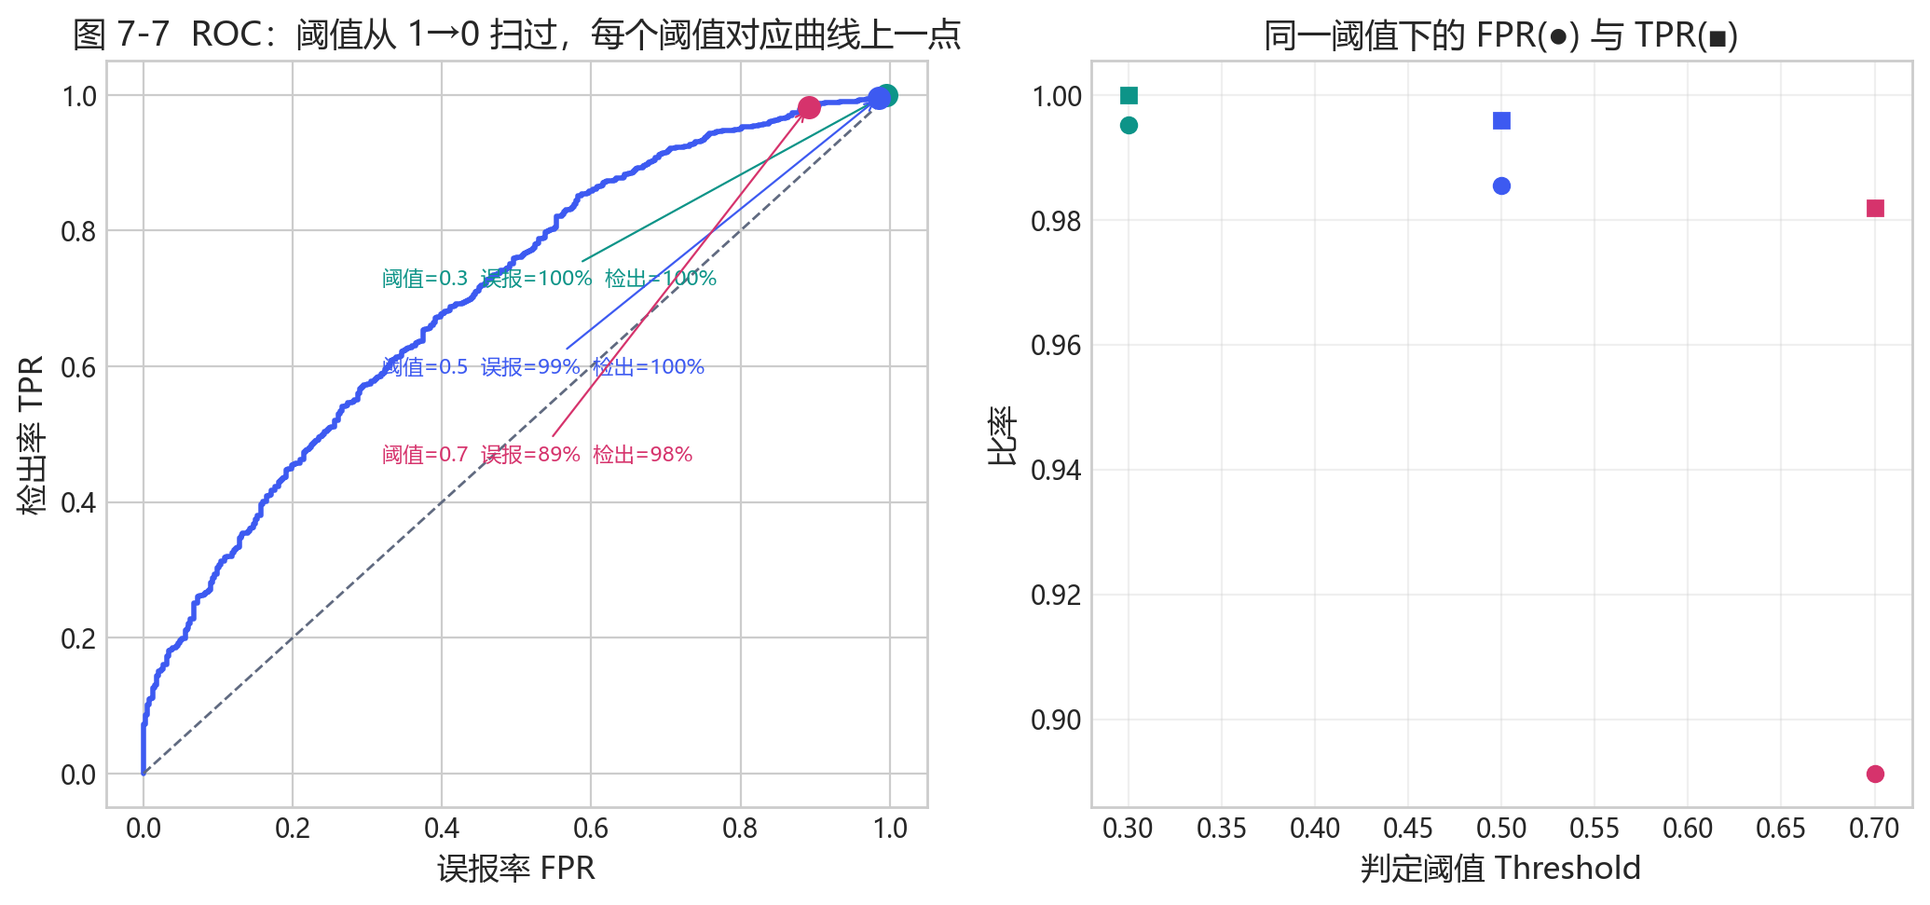
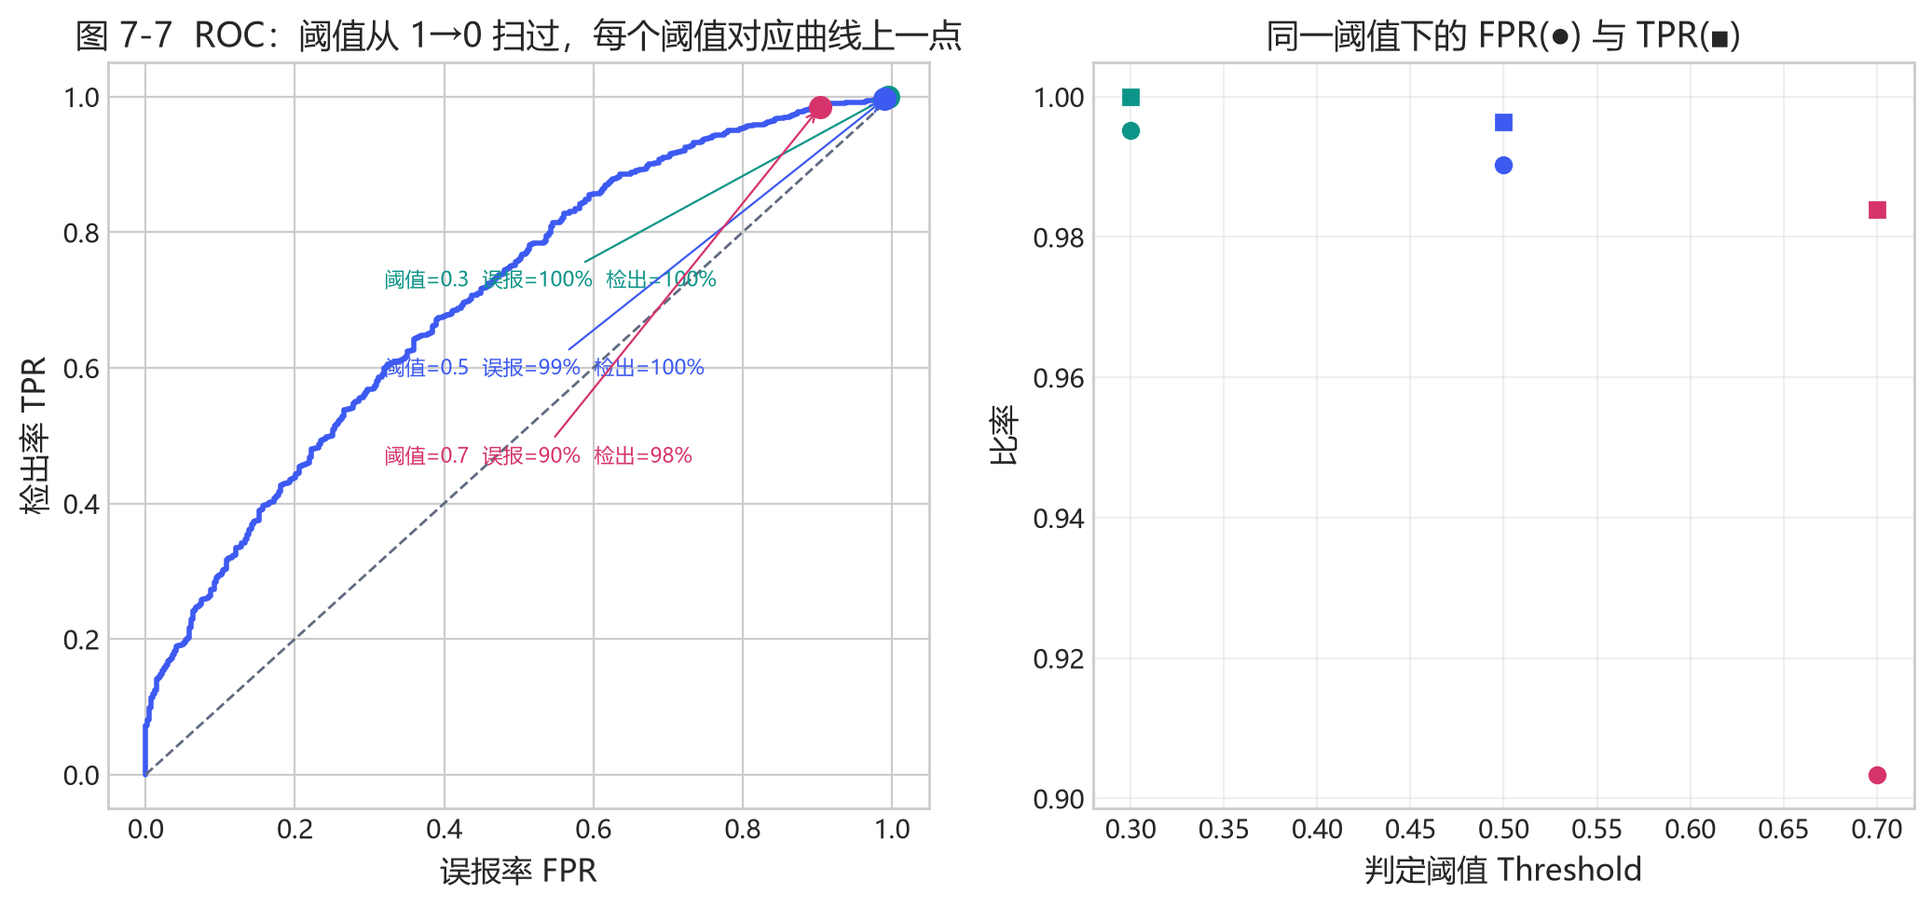
fix(teaching): 视频旁白脚本与教学图按修正口径更新, 手册校验器扩到视频脚本
视频脚本仍带被推翻的结论: '53d 可解释版 AUC 更高'(错)、'AUC 推到 0.81 / OOF 0.814'(v1 旧数)、v1 时期 SRM 预处理口径未加限定。现改为 143d 更准(8-split 0.898)/53d 逐维可解释(0.846), 并给 v1 口径加上'未在当前版本复现'。

'四个分类器 AUC 几乎重叠' 补范围限定: 该说法只在 11 维语料成立(LR/RF/GB/XGB = 0.701/0.702/0.714/0.720); 143 维上是 LR 0.924 / LGB 0.901 / XGB 0.900 / RF 0.866。

教学图按修正后的 11 维语料重画(teaching/gen_ml_figures.py); 本地第 8 章视频重渲(ch08.mp4, 4:06/14 段), durations.json 与质检图同步。

teaching/handbook_facts.py 校验范围扩到视频脚本文稿(禁止 AUC 更高/推到 0.81 等, 要求现口径与 v1 限定), CI 手册 job 一并覆盖。

diff --git a/teaching/handbook_facts.py b/teaching/handbook_facts.py
@@ -43,6 +43,22 @@ PDF = {
     "en": os.path.join(PROJ, "docs", "Learning-Handbook-From-Zero-to-nsF5-Steganography.pdf"),
 }
 
+# 旁白视频的脚本文稿 (教学面的第五处; 视频本体是生成物, 不入库)
+VIDEO_FILES = {
+    "zh": [os.path.join(PROJ, "teaching", "video_scenes_zh.py"),
+           os.path.join(PROJ, "teaching", "video_decks_zh.py")],
+}
+VIDEO_FORBIDDEN = [
+    "AUC 更高",          # 53d 不再"更高" —— 修正后 143d 更准
+    "推到 0.81",         # v1 时期的 OOF 数字
+    "OOF ≈ 0.814",
+    "四者 AUC ≈ 0.70–0.72，几乎重叠",   # 该说法只在 11 维语料成立, 需写明范围
+]
+VIDEO_REQUIRED = [
+    "未在当前版本复现",   # v1 时期的 SRM 预处理口径必须带这个限定
+    "0.898",             # 现口径
+]
+
 # --------------------------------------------------------------------------
 #  1) 必须出现的现口径 (两种语言都要有)
 # --------------------------------------------------------------------------
@@ -329,6 +345,12 @@ WEB = {
          "| **文档章节** | **对应代码** | **读它之前先掌握** |"),
         ("## 10.4 论文与代码对照阅读表", "## 10.4 文档与代码对照阅读表"),
         ("选论文/README 中的 1～2 个结论", "选 README / `docs/RESULTS.md` 中的 1～2 个结论"),
+        ("### 8.8.1 SRM 高通滤波：同源有收益，跨源反而亏",
+         "### 8.8.1 SRM 高通滤波：v1 时期同源有收益、跨源反而亏（该口径未在当前版本复现）"),
+        ("# 53d 可解释版（去 SRM 90 维，AUC 更高、可逐维解释）",
+         "# 53d 可解释版（去 SRM 90 维；AUC 略低，但每一维都能解释）"),
+        ("SRM 同源有收益、跨源反而亏（ch08.8.1）",
+         "SRM 预处理在 v1 口径下同源有收益、跨源反而亏（ch08.8.1；该口径未在当前版本复现）"),
         ("v2 逻辑回归在训练分布内 AUC 很高，但部署到真实 JPEG 干净照片时**几乎全判 1.0**："
          "SRM 残差对 JPEG 高频噪声过于敏感。修复办法是把 414 张真实 JPEG 干净图作为独立 "
          "`photo_id`（与原训练集完全不相交）加入训练，得 `dataset_campus_v2_jpeg.csv`，"
@@ -434,6 +456,17 @@ WEB = {
          "- The 90 SRM residual statistics are the single largest gain contributor (52.6%) once "
          "the feature scale is consistent, but they are also the least interpretable block - that "
          "is the trade-off the 53-D model removes;"),
+        ("### 8.8.1 SRM High-Pass Filtering: Same-Source Gain, Cross-Source Loss",
+         "### 8.8.1 SRM High-Pass Filtering: v1-Era Same-Source Gain, Cross-Source Loss "
+         "(not reproduced in the current revision)"),
+        ("# 53d interpretable model (SRM 90 removed; higher AUC)",
+         "# 53d interpretable model (SRM 90 removed; slightly lower AUC, fully interpretable)"),
+        ("SRM gains on same-source but loses on cross-source (ch08.8.1)",
+         "In the v1-era protocol SRM gains on same-source but loses on cross-source "
+         "(ch08.8.1; not reproduced in the current revision)"),
+        ("> **Watch out |** The gain only appears within **same-source** data.",
+         "> **Watch out (v1-era protocol; not reproduced in the current revision) |** "
+         "In that protocol the gain only appeared within **same-source** data."),
         ("- ML detection grew from 11-D features with LR/XGB (AUC ~0.75-0.79) to a 143-D LightGBM "
          "default (0.9085 average) plus a 53-D interpretable model (0.9227); see 8.8;",
          "- ML detection grew from 11-D features with LR/XGB (AUC ~0.75-0.79) to a 143-D LightGBM "
@@ -605,6 +638,19 @@ def check(include_web: bool) -> int:
                 if s not in text:
                     print(f"  [缺现口径] {lang}/{label}: 缺 {s!r}")
                     bad += 1
+    # 视频脚本文稿 (只有中文旁白)
+    for p in VIDEO_FILES["zh"]:
+        if not os.path.exists(p):
+            continue
+        txt = io.open(p, encoding="utf-8").read()
+        for s in VIDEO_FORBIDDEN:
+            if s in txt:
+                print(f"  [陈旧结论] video/{os.path.basename(p)}: 仍含 {s!r}")
+                bad += 1
+        for s in VIDEO_REQUIRED:
+            if s not in txt:
+                print(f"  [缺现口径] video/{os.path.basename(p)}: 缺 {s!r}")
+                bad += 1
     if bad:
         print(f"\n手册校验未通过: {bad} 处。跑 `python teaching/handbook_facts.py --fix` 修正源稿。")
         return 1

diff --git a/teaching/video_decks_zh.py b/teaching/video_decks_zh.py
@@ -729,7 +729,7 @@ DECKS = [
                     "5 折 GroupKFold OOF 选模型 → 校准集挑阈值",
                     "全量重训 → held-out 测试集只评一次",
                 ]),
-            dict(t="四个分类器，差距不大", layout="side",
+            dict(t="四个分类器：11 维上差距不大", layout="side",
                 img=f"{ASSETS}/ml_clf_compare_roc.png", caption="真实数据：11 维特征、5 折 GroupKFold——四个分类器的 ROC 几乎重叠", say=(
                     "逻辑回归、随机森林、梯度提升、XGBoost，思路分别是画线、投票、接力补错。"
                     "但看这张真实对比图：四条 ROC 几乎叠在一起，AUC 都在零点七到零点七二之间。"
@@ -738,7 +738,7 @@ DECKS = [
                     "逻辑回归学出的系数还能逐个解释每个特征往哪个方向推——这是可解释性的红利。"),
                 bullets=[
                     "LR 画线 / RF 投票 / GB·XGB 接力补错",
-                    "四者 AUC ≈ 0.70–0.72，几乎重叠",
+                    "11 维上 LR/RF/GB/XGB ≈ 0.70–0.72，几乎重叠",
                     "瓶颈在特征与数据，不在分类器",
                     "~LR 系数可逐维解释（特征重要度）",
                 ]),
@@ -755,19 +755,21 @@ DECKS = [
                     "检测能力有物理上限 → ML 概率与启发式交叉印证",
                 ]),
             dict(t="v1.4 演进：SRM、143 维与双版本", layout="bullets", say=(
-                "最后看 v1.4 的三条升级线。第一，SRM 高通滤波预处理："
-                "同源数据上 AUC 提升约三个点，但跨源合并反而下降——预处理收益有严格的适用范围。"
-                "第二，特征从 11 维扩到 143 维、变体从 6 档扩到 12 档，OOF 提到零点八一。"
+                "最后看 v1.4 的三条升级线。第一，SRM 高通滤波作为预处理层："
+                "当年（v1 口径）同源数据上 AUC 提升约三个点，但跨源合并反而下降——"
+                "这条口径在当前版本没有复现，别当成定论。"
+                "第二，特征从 11 维扩到 143 维、变体从 6 档扩到 12 档。"
                 "第三，一个真实的部署教训：模型在校园灰度图上学得很好，"
                 "遇到真实 JPEG 相机照片的干净图，几乎全部误判成含密——这是分布漂移。"
                 "修复办法是把真实 JPEG 干净图加进训练。"
-                "最终双版本部署：143 维稳健版做默认，53 维可解释版 AUC 更高、可逐维解释。"
+                "最终双版本部署：143 维更准（8-split 零点八九八）做默认，"
+                "53 维每一维都能解释（零点八四六），代价是 AUC 低约零点零五。"
                 "任何新模型，部署前都要先做分布外测试。"),
                 bullets=[
-                    "SRM 预处理：同源 +0.03 AUC；跨源反亏",
-                    "143 维 + 12 档：OOF ≈ 0.814",
+                    "SRM 预处理：v1 口径下同源 +0.03、跨源反亏（未在当前版本复现）",
+                    "143 维 + 12 档：现口径 8-split 0.898（143d）/ 0.846（53d）",
                     "~教训：真实 JPEG 干净图曾全判 1.0（分布漂移）→ 加负样本修复",
-                    "双版本：143d 稳健（默认）/ 53d 可解释（AUC 更高）",
+                    "双版本：143d 更准（默认）/ 53d 逐维可解释（AUC 低约 0.05）",
                 ]),
         ],
         question="想一想：如果有 10 万张独立照片，还会坚持“特征法”吗？",

diff --git a/teaching/video_scenes_zh.py b/teaching/video_scenes_zh.py
@@ -1092,21 +1092,21 @@ dict(num=8, title="用机器学习做隐写检测", weeks="第 8–14 周", scen
         "__pill__Gn 塌缩 = 强力证据"]),
     S("bullets", "数据与训练：三条纪律", [
         B("数据怎么来？每张源照片生成 1 张干净加 6 个含密变体，覆盖不同算法、不同强度。训练流水线严守三条纪律：先按照片预留四分之一做测试集，绝不参训；训练池五折分组交叉验证选模型；校准集挑阈值；最后测试集只碰一次。", 2),
-        B("四个候选分类器——逻辑回归、随机森林、梯度提升、XGBoost——比下来 AUC 几乎重叠。结论反直觉但重要：瓶颈不在分类器，在特征。", 2),
+        B("四个候选分类器——逻辑回归、随机森林、梯度提升、XGBoost——在这个 11 维特征上 AUC 几乎重叠。结论反直觉但重要：这一层的瓶颈不在分类器，在特征。", 2),
     ], ["数据：每照片 1 干净 + 6 含密（1+6）",
         "纪律：预留测试集 / GroupKFold OOF / 校准挑阈值 / 只评一次",
-        "~LR、RF、GB、XGB：AUC 几乎重叠 → 瓶颈在特征"]),
+        "~11 维上 LR/RF/GB/XGB = 0.701/0.702/0.714/0.720：几乎重叠 → 瓶颈在特征"]),
     S("anim", "读结果：阈值是取舍，不是答案", [
         B("模型输出的是概率，要定一个阈值才能下结论。看动画：阈值从高往低滑，检出率上升，误报率也跟着涨。严一点，误报少但漏掉弱嵌入；松一点，抓得多但冤枉也多。", 0, anim_beat=0),
         B("项目用 Youden 准则自动选离对角线最远的点做默认阈值，再备一个低误报阈值给严格档。按密度分组看检出率：强嵌入九成以上，最弱的 nsF5 档只有五成——检测有物理上限，这是要接受的现实。", 0, anim_beat=1),
     ], anim="roc"),
     S("bullets", "v1.4 演进：三次升级，一堂贵课", [
-        B("最后看版本演进的三课。SRM 高通滤波：同源数据涨三个点，跨源反而亏——预处理不是万金油。特征 11 维升到 143 维、变体 6 档升 12 档后，AUC 推到 0.81。", 2),
+        B("最后看版本演进的三课。SRM 高通滤波作为预处理层：当年（v1 口径）同源数据涨三个点、跨源反而亏——这条口径在当前版本没有复现，别当成定论。第二课是特征升级：11 维升到 143 维、变体 6 档升 12 档。", 2),
         B("最贵的一课是分布漂移：模型在训练数据上表现很好，遇到真实 JPEG 相机照片，却把干净图几乎全判成含密。修复办法是把真实 JPEG 干净图加进训练。最终双版本部署：143 维稳健版做默认，53 维可解释版给论文和教学。记住：新模型上线前，先做分布外测试。", 4),
-    ], ["SRM 预处理：同源 +0.03，跨源反亏（不是万金油）",
-        "143 维 + 12 档：OOF ≈ 0.81",
+    ], ["SRM 预处理：v1 口径下同源 +0.03、跨源反亏（未在当前版本复现）",
+        "11 维 → 143 维、6 档 → 12 档",
         "~教训：真实 JPEG 干净图全判 1.0 → 分布漂移 → 加负样本修复",
-        "双版本：143d 稳健（默认）/ 53d 可解释（AUC 更高）"]),
+        "双版本：143d 更准（默认，8-split 0.898）/ 53d 逐维可解释（0.846）"]),
     close_scene("如果有十万张独立照片，你还会坚持特征法，还是上深度学习？",
                 "第 9 章 · 工程化：C++、GPU、GUI 与测试",
                 "想一想：如果有十万张独立照片，你还会坚持特征法，还是上深度学习？为什么？",

diff --git a/teaching/web/en/content/ch08.md b/teaching/web/en/content/ch08.md
@@ -256,7 +256,7 @@ print(get_predictor().predict(s))
 
 Sections 8.1-8.7 describe the v1.0-v1.3 route: 11-D features with LR/XGB, AUC ~0.75-0.79. v1.4.0 upgraded along three lines: SRM high-pass preprocessing, 143-D v2 features with 12 variants, and finally the dual LightGBM model strategy. The story follows the actual evolution, so the README's experiment tables make sense.
 
-### 8.8.1 SRM High-Pass Filtering: Same-Source Gain, Cross-Source Loss
+### 8.8.1 SRM High-Pass Filtering: v1-Era Same-Source Gain, Cross-Source Loss (not reproduced in the current revision)
 
 SRM (Spatial Rich Model) is a set of **high-pass filter kernels**. `src/srm_filter.py` implements 30 standard kernels, filters the image, takes the maximum absolute response per pixel, clips to +/-4, and rescales into an "enhanced image" that feeds the existing feature extractors. CPU (numpy) and GPU (torch) implementations; switches are `make_dataset.py --preprocess srm` and the GPU `use_srm=True`.
 
@@ -269,7 +269,7 @@ SRM (Spatial Rich Model) is a set of **high-pass filter kernels**. `src/srm_filt
 | Low-FP stego detection | 41.2% | 50.3% |
 | Clean false positives (low-FP thr) | 9.6% | 9.6% |
 
-> **Watch out |** The gain only appears within **same-source** data. In cross-source (campus + full BOSSbase), SRM pulls CPU test AUC from 0.741 down to 0.704 and GPU validation AUC from 0.651 down to 0.572 - high-pass filtering also flattens the differences between cameras/compression sources. So the default model is trained on merged data without SRM, while the SRM campus model is kept separately as campus_srm.
+> **Watch out (v1-era protocol; not reproduced in the current revision) |** In that protocol the gain only appeared within **same-source** data. In cross-source (campus + full BOSSbase), SRM pulls CPU test AUC from 0.741 down to 0.704 and GPU validation AUC from 0.651 down to 0.572 - high-pass filtering also flattens the differences between cameras/compression sources. So the default model is trained on merged data without SRM, while the SRM campus model is kept separately as campus_srm.
 
 ### 8.8.2 The v2 143-D Feature Set and 12 Variants
 
@@ -308,7 +308,7 @@ from ml_predict import MLPredictor
 # default: 143d robust model (models/stego_classifier.joblib)
 pred_143 = MLPredictor()
  
-# 53d interpretable model (SRM 90 removed; higher AUC)
+# 53d interpretable model (SRM 90 removed; slightly lower AUC, fully interpretable)
 pred_53 = MLPredictor(
     model_path='models/stego_classifier_v2_jpeg_lgb_51d.joblib',
     clip_outliers=False)

diff --git a/CHANGELOG.md b/CHANGELOG.md
@@ -3,6 +3,38 @@
 All notable changes to this project will be documented in this file.
 Format follows [Keep a Changelog](https://keepachangelog.com/en/1.1.0/).
 
+## [1.6.5] - 2026-09-14
+
+**把"教学面"补全：视频旁白脚本、教学图、以及散落各处的措辞。**
+
+上一版修了手册的 DOCX / 网页 / PDF 三处，但教学材料还有第五处 —— **旁白视频**
+（`teaching/video_scenes_zh.py` 与 `video_decks_zh.py`）。排查后确认它们同样带着
+被推翻的结论，这一版一起修掉并把护栏扩到视频脚本。
+
+### Fixed
+
+- `video_scenes_zh.py` / `video_decks_zh.py`：
+  - **"53d 可解释版 AUC 更高"** —— 错。现改为"143d 更准（8-split 0.898）做默认，
+    53d 每一维都能解释（0.846），代价是 AUC 低约 0.05"；
+  - **"143 维 + 12 档：AUC 推到 0.81 / OOF ≈ 0.814"** —— v1 时期数字，已删；
+  - **"SRM 预处理：同源 +0.03、跨源反亏"** —— v1 口径，加上"未在当前版本复现"的限定；
+  - "四个分类器 AUC 几乎重叠" 补上范围限定（**11 维**语料上成立：LR/RF/GB/XGB =
+    0.701/0.702/0.714/0.720，极差 0.02；143 维上是 LR 0.924 / XGB 0.900 /
+    LGB 0.901 / RF 0.866）。
+- `teaching/web/{zh,en}/content/ch08.md`：8.8.1 节标题与代码注释里的
+  "AUC 更高"、v1 时期 SRM 口径的表述；`appF.md` 的同一处。
+- `README.md`：`MLPredictor` 示例注释 "53d 可解释版（AUC 更高）" → "AUC 略低，
+  但每一维都能解释"。
+- 教学图按修正后的 11 维语料重画（`teaching/gen_ml_figures.py`，含四分类器 ROC）。
+- **本地视频重渲**：第 8 章 `ch08.mp4` 重新生成（4:06，14 段；变化的旁白重新
+  TTS，未变的分段复用缓存），`durations.json` / `index.html` / 质检图同步更新。
+
+### Added
+
+- `teaching/handbook_facts.py` 的校验范围扩到**视频脚本文稿**：禁止
+  "AUC 更高""推到 0.81""OOF ≈ 0.814" 等陈旧说法，要求出现"未在当前版本复现"
+  与现口径数字。CI 的手册 job 一并覆盖（注入测试验证过它能抓到）。
+
 ## [1.6.4] - 2026-09-14
 
 **对教学材料负责：手册改正 + 教学 notebook 进 CI。**

diff --git a/teaching/web/zh/content/ch08.md b/teaching/web/zh/content/ch08.md
@@ -256,7 +256,7 @@ print(get_predictor().predict(s))
 
 8.1~8.7 讲的是 v1.0~v1.3 路线：11 维特征 + LR/XGB，AUC 约 0.75~0.79。v1.4.0 沿三条线升级：SRM 高通滤波预处理、143 维 v2 特征与 12 档变体、以及最终的 LightGBM 双版本模型。下面按演进顺序讲，帮你读懂 README 里的实验表。
 
-### 8.8.1 SRM 高通滤波：同源有收益，跨源反而亏
+### 8.8.1 SRM 高通滤波：v1 时期同源有收益、跨源反而亏（该口径未在当前版本复现）
 
 SRM（Spatial Rich Model）是一组**高通滤波核**。`src/srm_filter.py` 实现 30 个标准核，对图像逐核滤波后取最大绝对响应、clip 到 ±4 再缩放成一张“增强图”，喂给原有特征器。CPU（numpy）与 GPU（torch）双实现，开关是 `make_dataset.py --preprocess srm` 和 GPU 的 `use_srm=True`。
 
@@ -308,7 +308,7 @@ from ml_predict import MLPredictor
 # 默认：143d 稳健版（models/stego_classifier.joblib）
 pred_143 = MLPredictor()
  
-# 53d 可解释版（去 SRM 90 维，AUC 更高、可逐维解释）
+# 53d 可解释版（去 SRM 90 维；AUC 略低，但每一维都能解释）
 pred_53 = MLPredictor(
     model_path='models/stego_classifier_v2_jpeg_lgb_51d.joblib',
     clip_outliers=False)

diff --git a/teaching/web/en/content/appF.md b/teaching/web/en/content/appF.md
@@ -38,7 +38,7 @@ To produce results, do not spread evenly. Go deep on one track; keep the rest at
 
 - **JPEG-domain hiding**: move ch04-05 to quantized DCT coefficients (the project's `yccstego` extension is this direction); feel "spatial vs transform domain" difference;
 - **Deep steganalysis**: under small-sample constraints, use explainable features first to verify the signal, then cautiously introduce deep models (the ch08.1 lesson);
-- **Domain adaptation / cross-source robustness**: SRM gains on same-source but loses on cross-source (ch08.8.1); study how adaptation makes features stable across cameras/compression;
+- **Domain adaptation / cross-source robustness**: In the v1-era protocol SRM gains on same-source but loses on cross-source (ch08.8.1; not reproduced in the current revision); study how adaptation makes features stable across cameras/compression;
 - **Adversarial robustness and false-positive control**: study "loose vs strict" thresholds and Youden / low-FP trade-offs (ch07), and the physical ceiling of undetectable embedding;
 - **Explainability**: 143d robust vs 53d interpretable (ch08.8.4); study which features truly contribute the gain and how to explain per-dimension.
 

diff --git a/teaching/web/zh/content/appF.md b/teaching/web/zh/content/appF.md
@@ -38,7 +38,7 @@
 
 - **JPEG 域隐写**：把 ch04–05 的思路搬到量化 DCT 系数（项目 `yccstego` 扩展即此方向），体会“空间域 vs 变换域”的差异；
 - **深度学习隐写分析**：在小样本约束下，如何用可解释特征先验证信号，再谨慎引入深度模型（ch08.1 的教训）；
-- **域适应 / 跨源鲁棒性**：SRM 同源有收益、跨源反而亏（ch08.8.1），可研究如何用域适应让特征跨相机/压缩源更稳；
+- **域适应 / 跨源鲁棒性**：SRM 预处理在 v1 口径下同源有收益、跨源反而亏（ch08.8.1；该口径未在当前版本复现），可研究如何用域适应让特征跨相机/压缩源更稳；
 - **对抗鲁棒性与误报控制**：研究“宽松 vs 严格”阈值与 Youden/低误报点的取舍（ch07），以及不可检测嵌入的物理上限；
 - **可解释性**：143d 稳健 vs 53d 可解释（ch08.8.4），可研究哪些特征真正贡献了增益、如何做逐维解释。
 

diff --git a/README.md b/README.md
@@ -1,7 +1,7 @@
 # nsF5 图像隐写工具 (Steganography)
 
 ![CI](https://github.com/Yukinoshita-lin/nsf5-steganography/actions/workflows/ci.yml/badge.svg)
-![version](https://img.shields.io/badge/version-1.6.4-blue)
+![version](https://img.shields.io/badge/version-1.6.5-blue)
 ![license](https://img.shields.io/badge/license-Apache_2.0-blue)
 ![python](https://img.shields.io/badge/python-3.9%2B-blue)
 [![DOI](https://zenodo.org/badge/DOI/10.5281/zenodo.22543629.svg)](https://doi.org/10.5281/zenodo.22543629)
@@ -149,7 +149,7 @@ from src.ml_predict import MLPredictor
 # 默认 143d (稳健, 部署推荐)
 pred = MLPredictor()  # models/stego_classifier.joblib
 
-# 切换 53d 可解释版 (AUC 更高, 论文/教学推荐)
+# 切换 53d 可解释版 (AUC 略低, 但每一维都能解释; 教学/答辩推荐)
 pred = MLPredictor(model_path='models/stego_classifier_v2_jpeg_lgb_51d.joblib',
                    clip_outliers=False)
 
